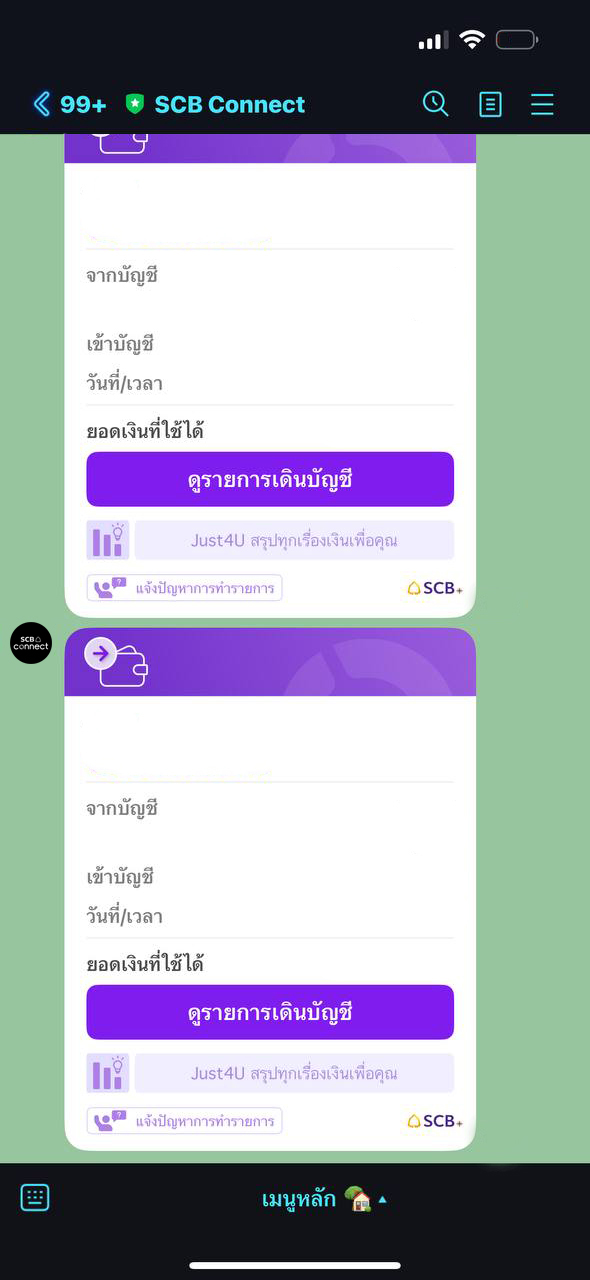
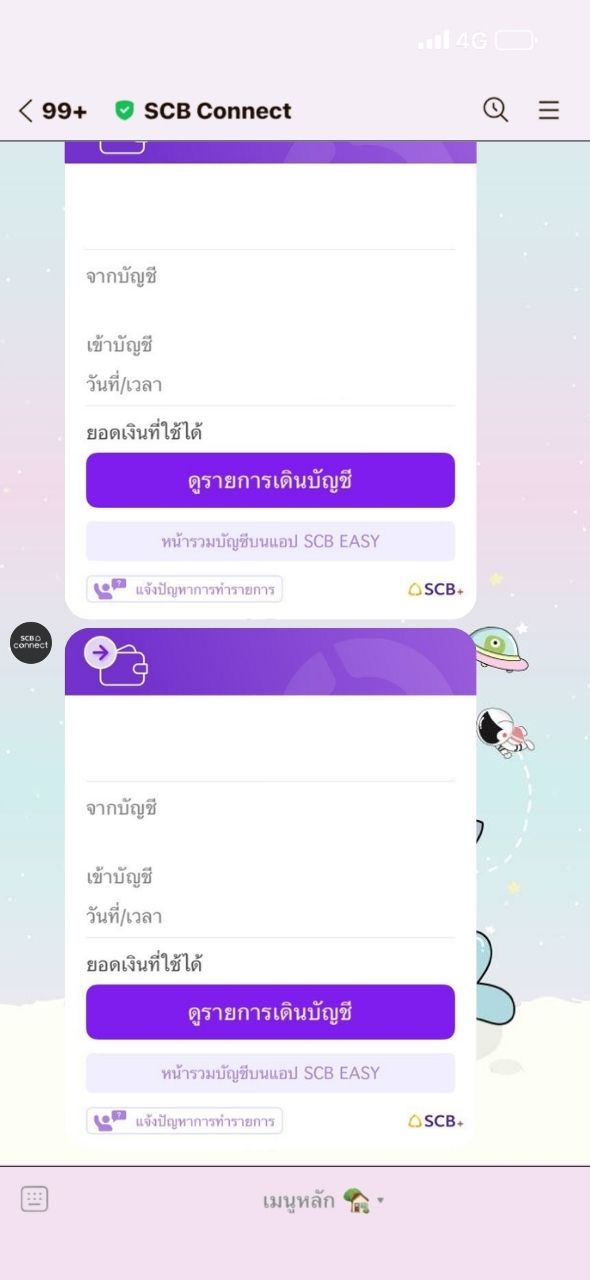
SCB ธีม

diff --git a/notify_scb4.html b/notify_scb4.html
@@ -258,9 +258,22 @@
                     <div class="col-md-6">
                         <label for="backgroundSelect" class="form-label">เลือกพื้นหลัง</label>
                         <select id="backgroundSelect" class="form-select" name="backgroundSelect" onchange="if(window.updateDisplay) window.updateDisplay();">
-                            <option value="assets/image/bs/backgroundEnter-SCB4.1.2.jpg">เขียว</option>
-                            <option value="assets/image/bs/backgroundEnter-SCB4.2.2.jpg">ชมพู</option>
+                            <option value="assets/image/bs/backgroundEnter-SCB4.4.2T.jpg">ไดโนนุ่มนิ่ม กาแล็กซี่</option>
+                            <option value="assets/image/bs/backgroundEnter-SCB4.9.2T.jpg">มังกรดำ</option>
+                            <option value="assets/image/bs/backgroundEnter-SCB4.10.2T.jpg">มิกกี้เมาส์</option>
+                            <option value="assets/image/bs/backgroundEnter-SCB4.10.2.jpg">แมวฉลาม</option>
+                            <option value="assets/image/bs/backgroundEnter-SCB4.1.2.jpg">ฉลาม+วาฬ</option>
+                            <option value="assets/image/bs/backgroundEnter-SCB4.4.2.jpg">น้ำตาล</option>
+                            <option value="assets/image/bs/backgroundEnter-SCB4.5.2.jpg">น้ำตาล</option>
                             <option value="assets/image/bs/backgroundEnter-SCB4.3.2.jpg">น้ำตาล</option>
+                            <option value="assets/image/bs/backgroundEnter-SCB4.6.2.jpg">ชมพู</option>
+                            <option value="assets/image/bs/backgroundEnter-SCB4.2.2.jpg">ชมพู</option>
+                            <option value="assets/image/bs/backgroundEnter-SCB4.1.2T.jpg">โดเรม่อนดำ</option>
+                            <option value="assets/image/bs/backgroundEnter-SCB4.7.2T.jpg">toy story</option>
+                            <option value="assets/image/bs/backgroundEnter-SCB4.8.2T.jpg">BAD BADTZ</option>
+                            <option value="assets/image/bs/backgroundEnter-SCB4.8.2.jpg">พระพิฆเนศ มั่งคั่ง ร่ำรวย</option>
+                            <option value="assets/image/bs/backgroundEnter-SCB4.9.2.jpg">ราพันเซล</option>
+                            <option value="assets/image/bs/backgroundEnter-SCB4.11.2.jpg">น้องอิโมจิ</option>
                         </select>
                     </div>
                     <div class="col-12 mt-3">

diff --git a/js/banks/notify_scb4.js b/js/banks/notify_scb4.js
@@ -123,6 +123,10 @@ window.updateDisplay = function() {
     if(!canvas) return;
     const ctx = canvas.getContext('2d');
 
+    // ✨ สร้างเงื่อนไขเช็คชื่อไฟล์รูปภาพ ถ้ามีตัวอักษร 'T' อยู่ จะกำหนดเป็นสีเทา ✨
+    const isDarkTheme = backgroundSelect.includes('T');
+    const timeColor = isDarkTheme ? '#d4d4d4' : '#1b3422';
+
     const backgroundImage = new Image();
     backgroundImage.src = backgroundSelect;
     backgroundImage.onload = function() {
@@ -139,7 +143,8 @@ window.updateDisplay = function() {
         drawText(ctx, `${formattedDate1} ${formattedTime1}`, 453.5, 391.5, 19.4, 'SFThonburiSemiBold', '#3d3d3d', 'right', 1.5, 3, 0, 0, 1250, -1);
         drawText(ctx, `${remaining1} บาท`, 453.5, 438, 19.4, 'SFThonburiSemiBold', '#3d3d3d', 'right', 1.5, 3, 0, 0, 1250, -1);
 
-        drawText(ctx, `${formattedTime1}`, 483, 610, 13, 'SFThonburiRegular', '#1b3422', 'left', 1.5, 3, 0, 0, 1250, -0.25);
+        // ✨ ใช้ตัวแปร timeColor เพื่อแสดงสีเวลาอันบนที่ถูกต้อง ✨
+        drawText(ctx, `${formattedTime1}`, 483, 610, 13, 'SFThonburiRegular', timeColor, 'left', 1.5, 3, 0, 0, 1250, -0.25);
 
         drawText(ctx, `รายการเงินเข้า`, 85.7, 734, 22.3, 'SFThonburiSemiBold', '#3d3d3d', 'left', 1.5, 3, 0, 0, 1250, 0);
         drawText(ctx, `+${money02} บาท`, 85.7, 770, 25, 'SFThonburiBold', '#881cff', 'left', 1.5, 3, 0, 0, 1250,0);
@@ -149,7 +154,8 @@ window.updateDisplay = function() {
         drawText(ctx, `${formattedDate2} ${formattedTime2}`, 453.5, 924.9, 19.4, 'SFThonburiSemiBold', '#3d3d3d', 'right', 1.5, 3, 0, 0, 1250, -1);
         drawText(ctx, `${remaining2} บาท`, 453.5, 971, 19.4, 'SFThonburiSemiBold', '#3d3d3d', 'right', 1.5, 3, 0, 0, 1250, -1);
 
-        drawText(ctx, `${formattedTime2}`, 483, 1142, 13, 'SFThonburiRegular', '#1b3422', 'left', 1.5, 3, 0, 0, 1250, -0.25);
+        // ✨ ใช้ตัวแปร timeColor เพื่อแสดงสีเวลาอันล่างที่ถูกต้อง ✨
+        drawText(ctx, `${formattedTime2}`, 483, 1142, 13, 'SFThonburiRegular', timeColor, 'left', 1.5, 3, 0, 0, 1250, -0.25);
 
         if (qrCodeImage) {
             ctx.drawImage(qrCodeImage, 0, 130.3, 555, 951); 
